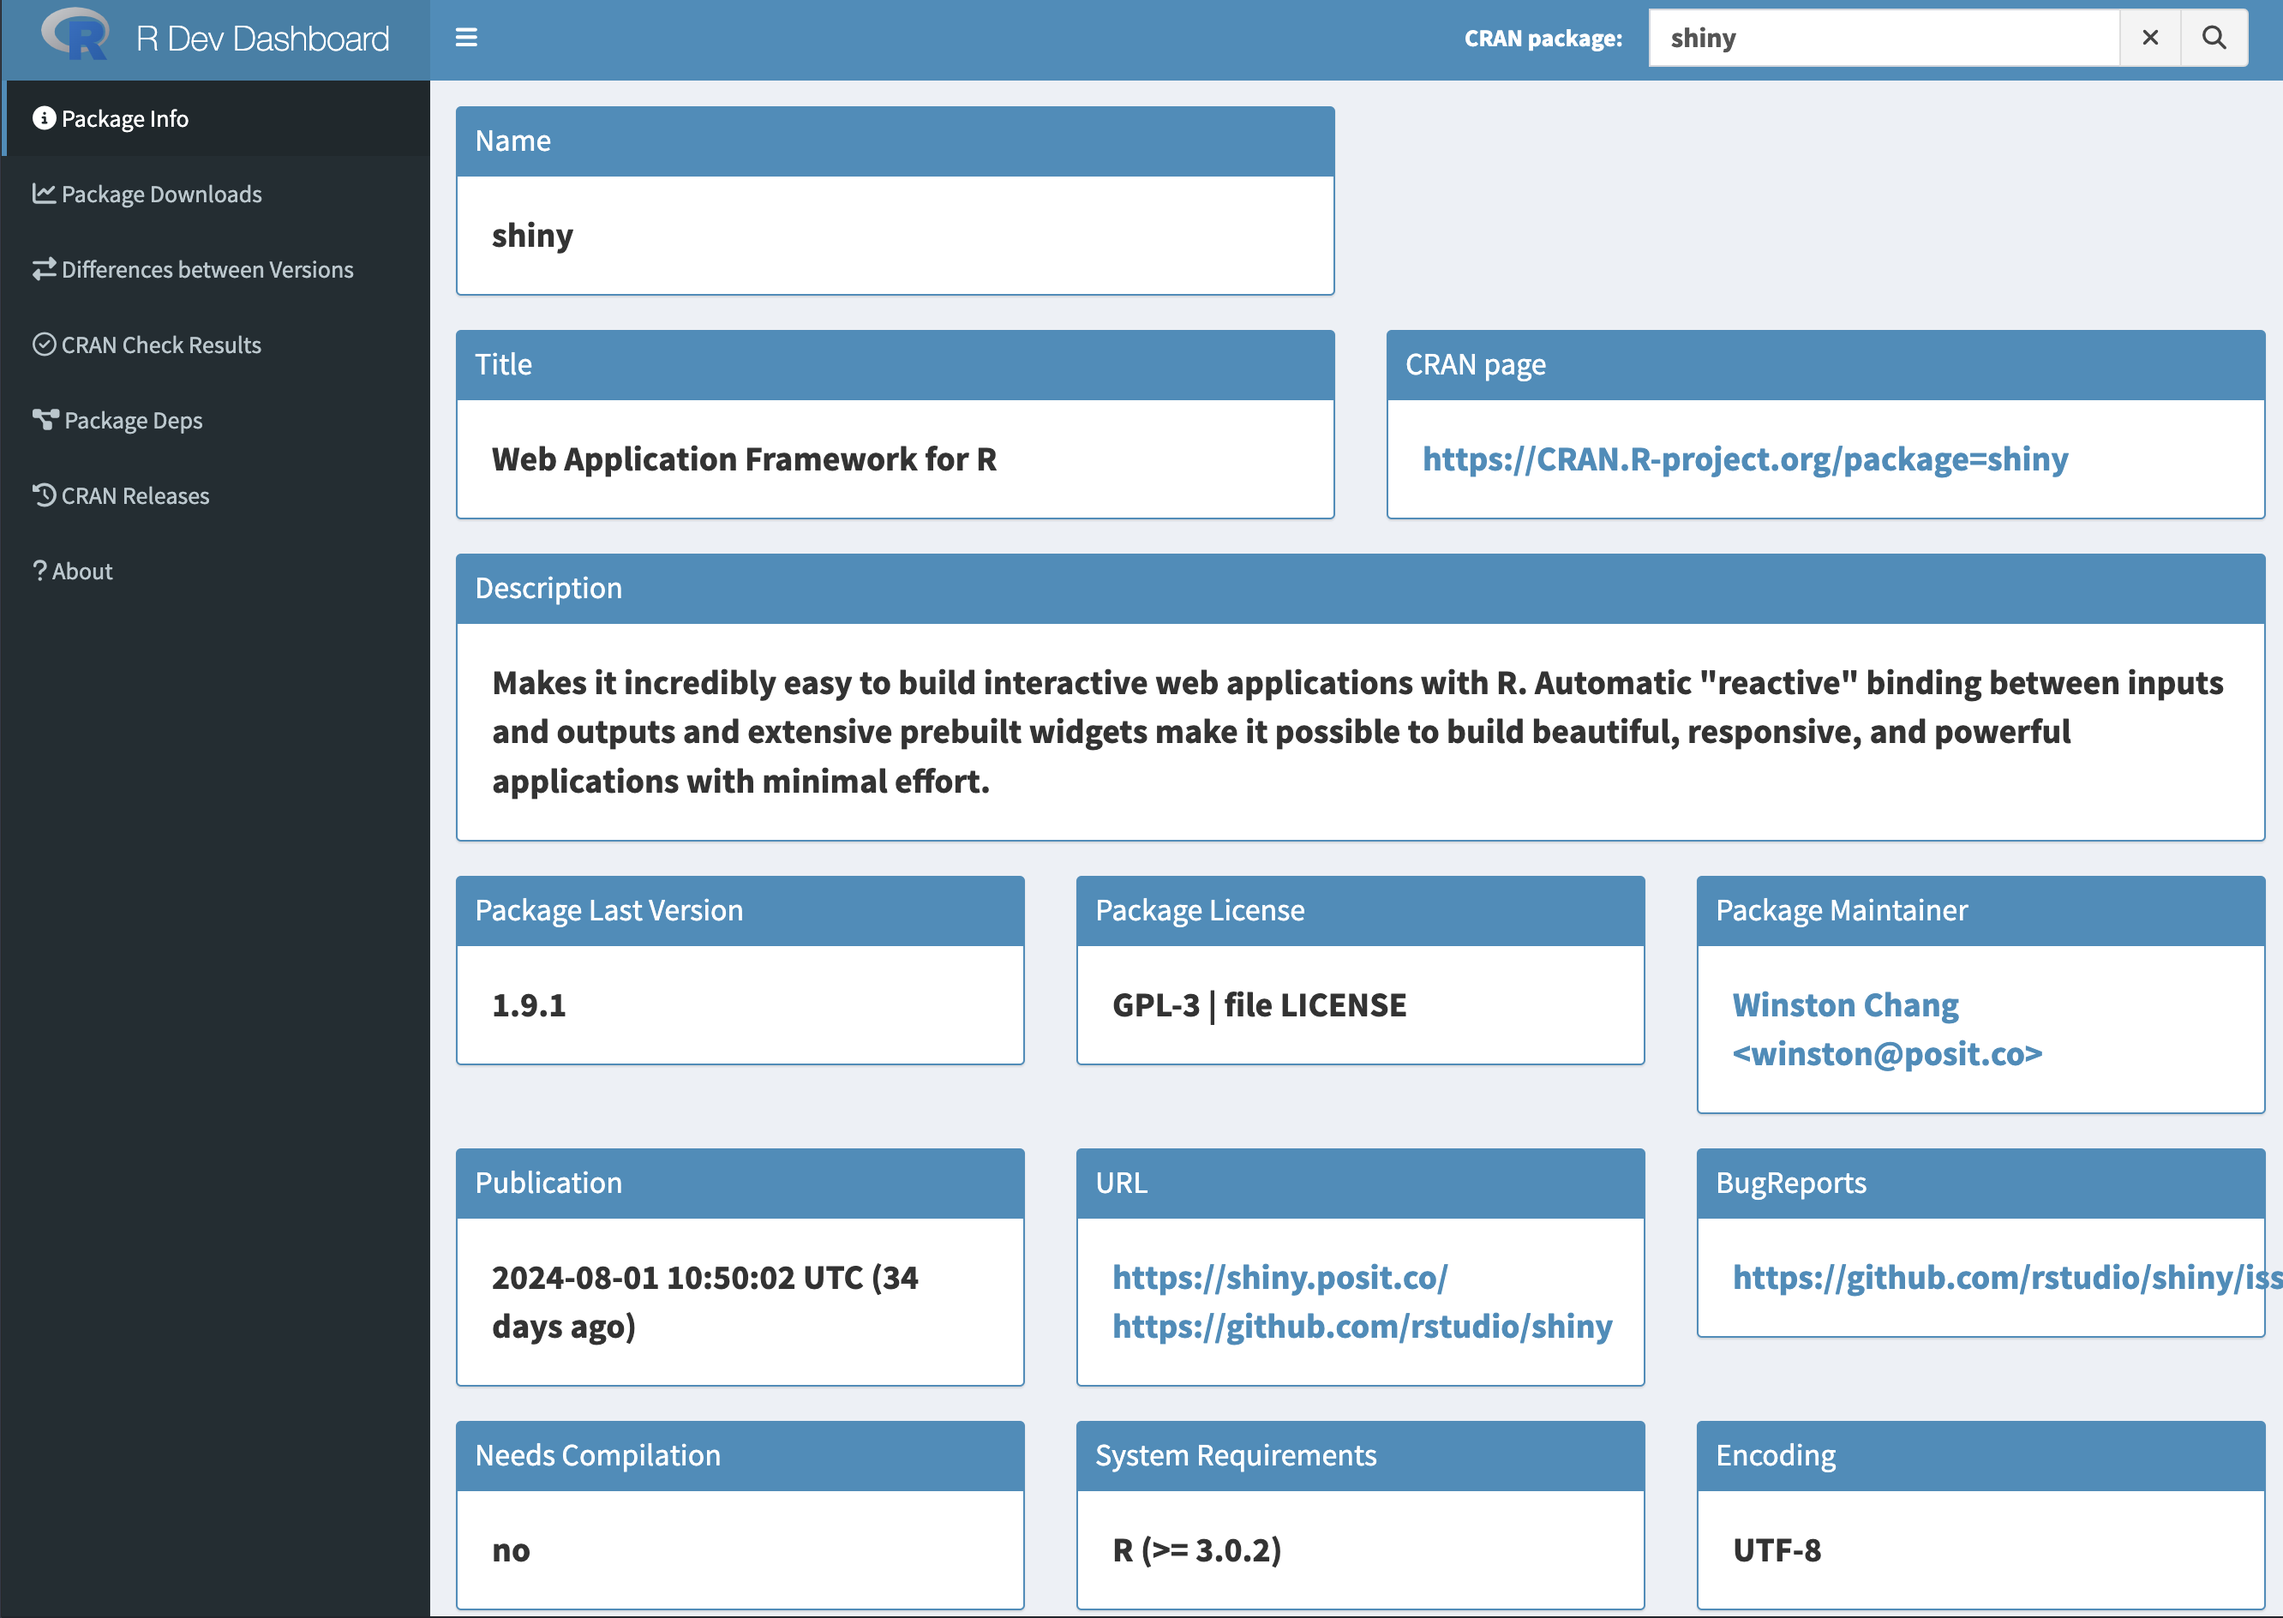
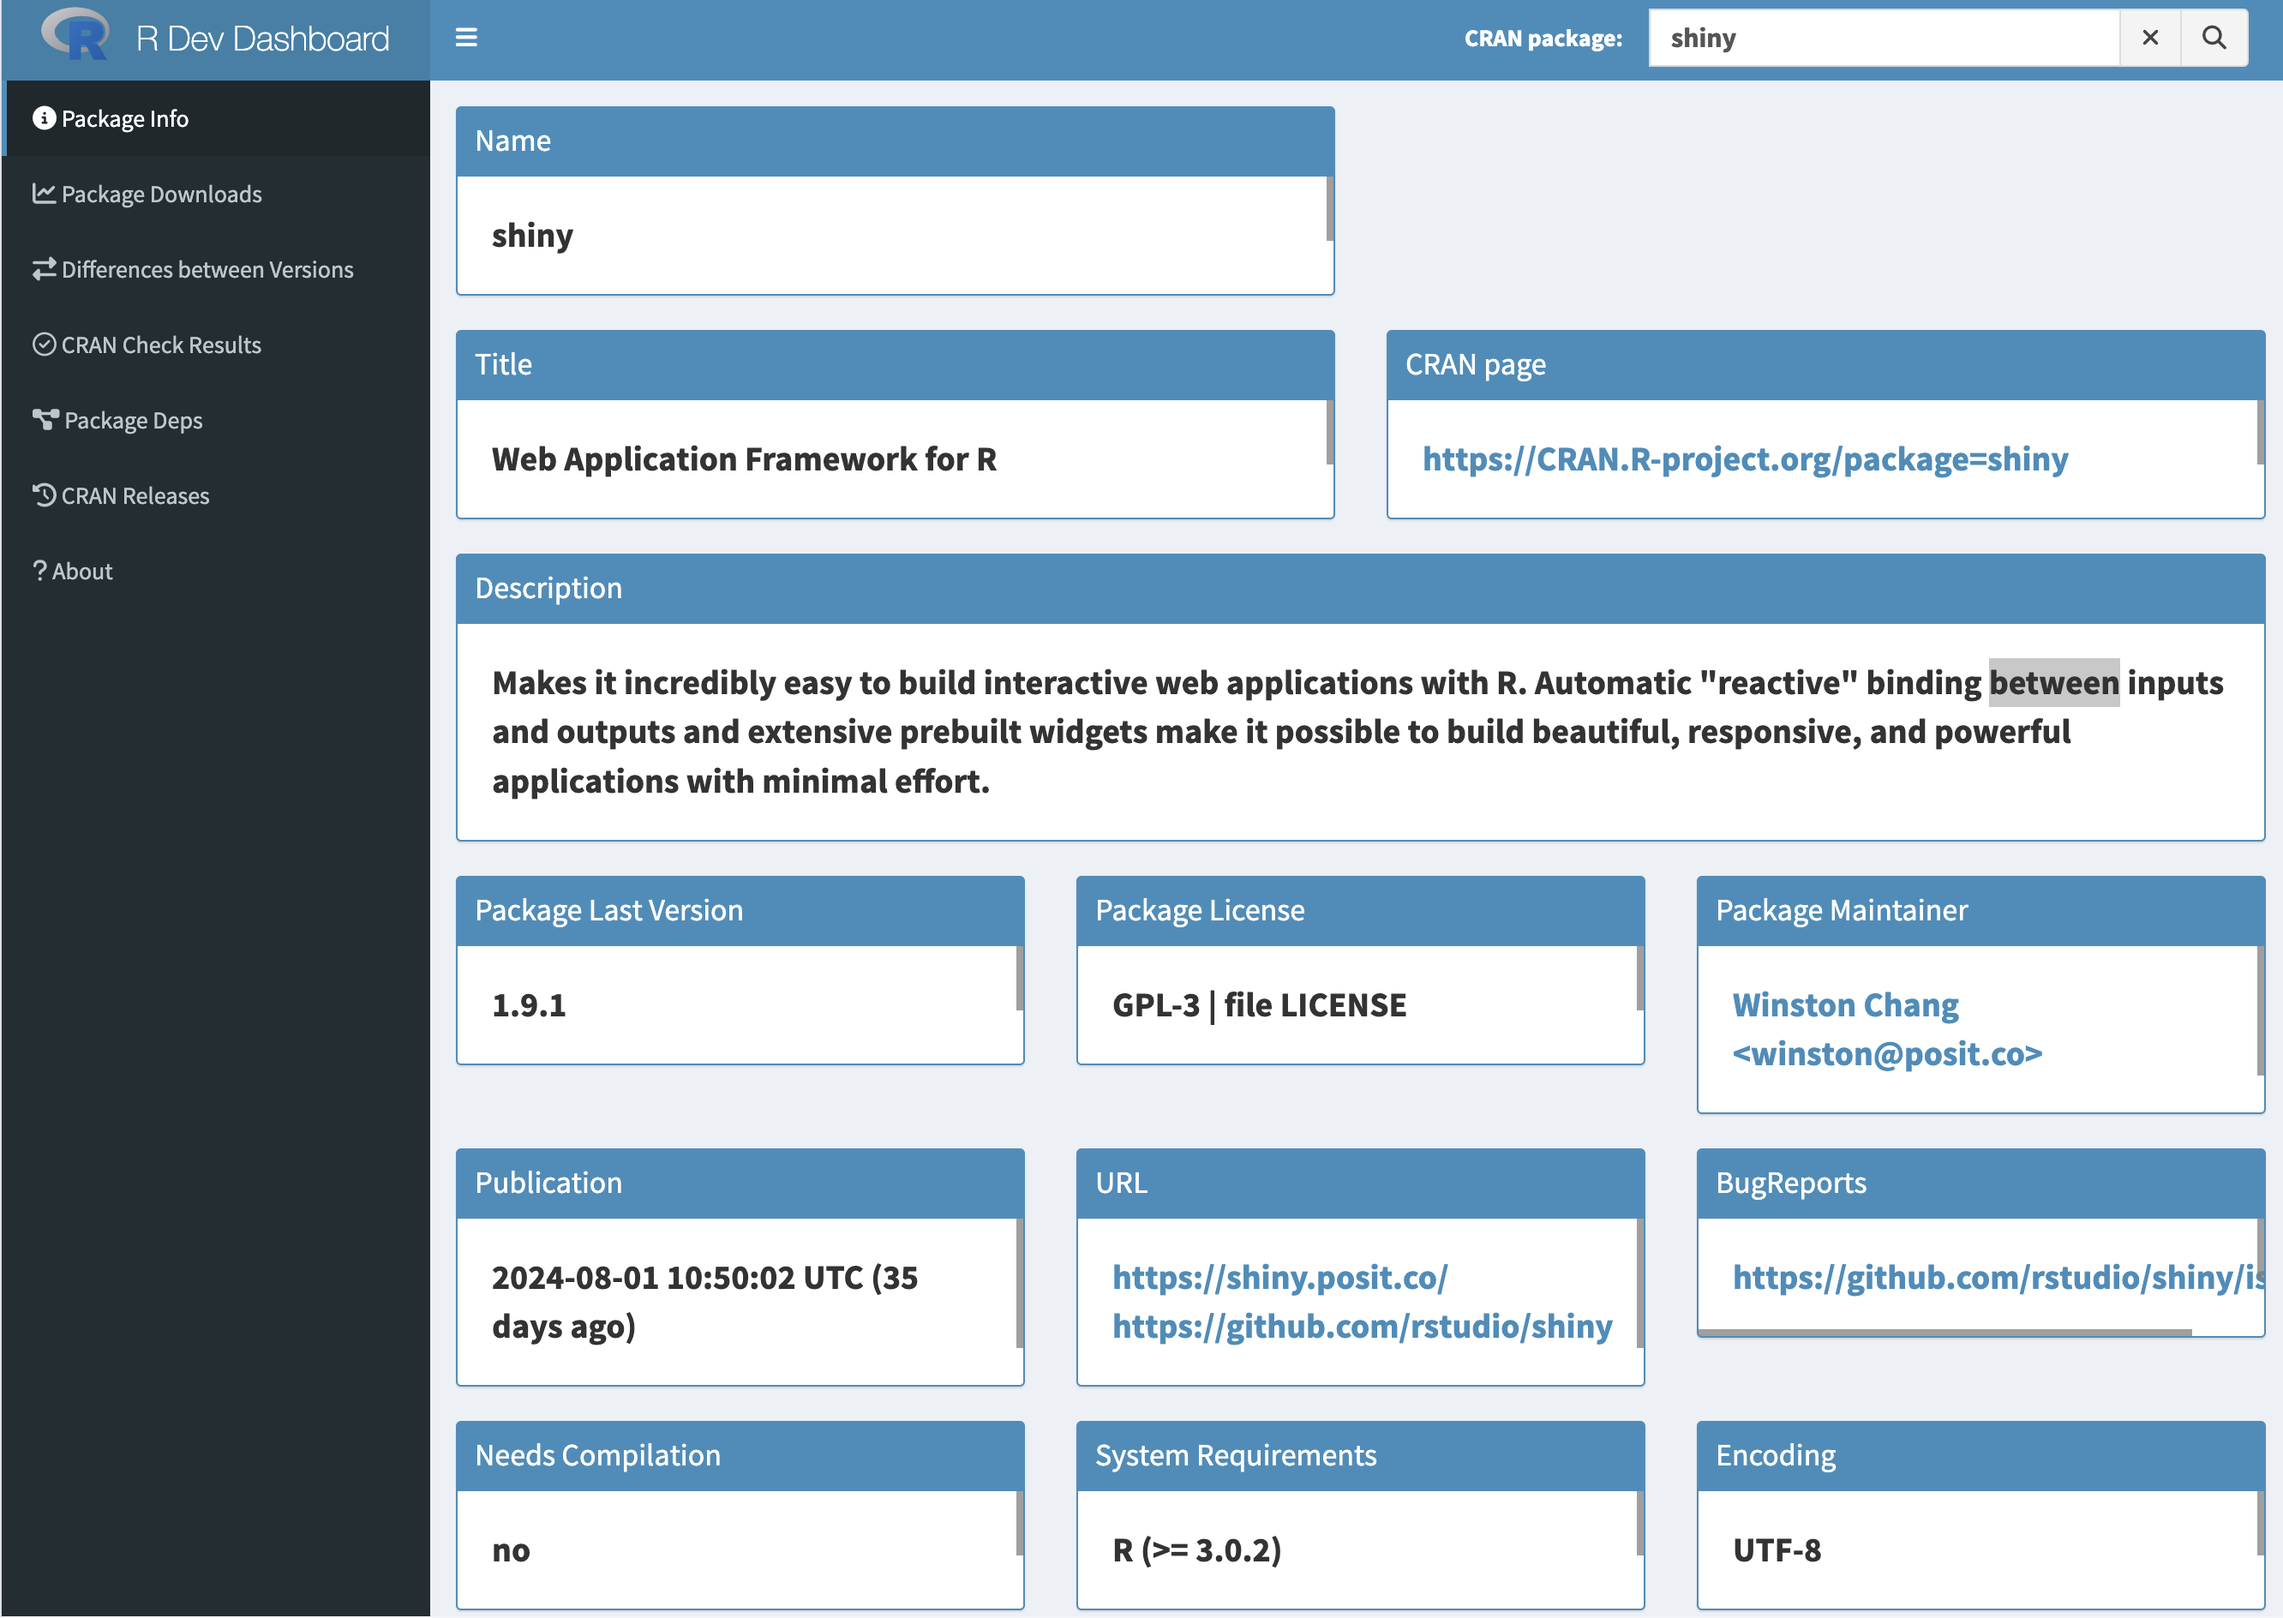
overflow auto

Changed region(s): [[0.7477, 0.8125, 0.9658, 0.8438], [0.8724, 0.4062, 0.9347, 0.4375], [0.997, 0.7812, 1.0, 0.8125]]

diff --git a/www/css/styles.css b/www/css/styles.css
@@ -20,6 +20,10 @@ li .form-control {
     font-weight: bold;
 }
 
+.box-body {
+  overflow: auto;
+}
+
 @media (max-width: 768px) {
     .search-input {
         width: 300px;
